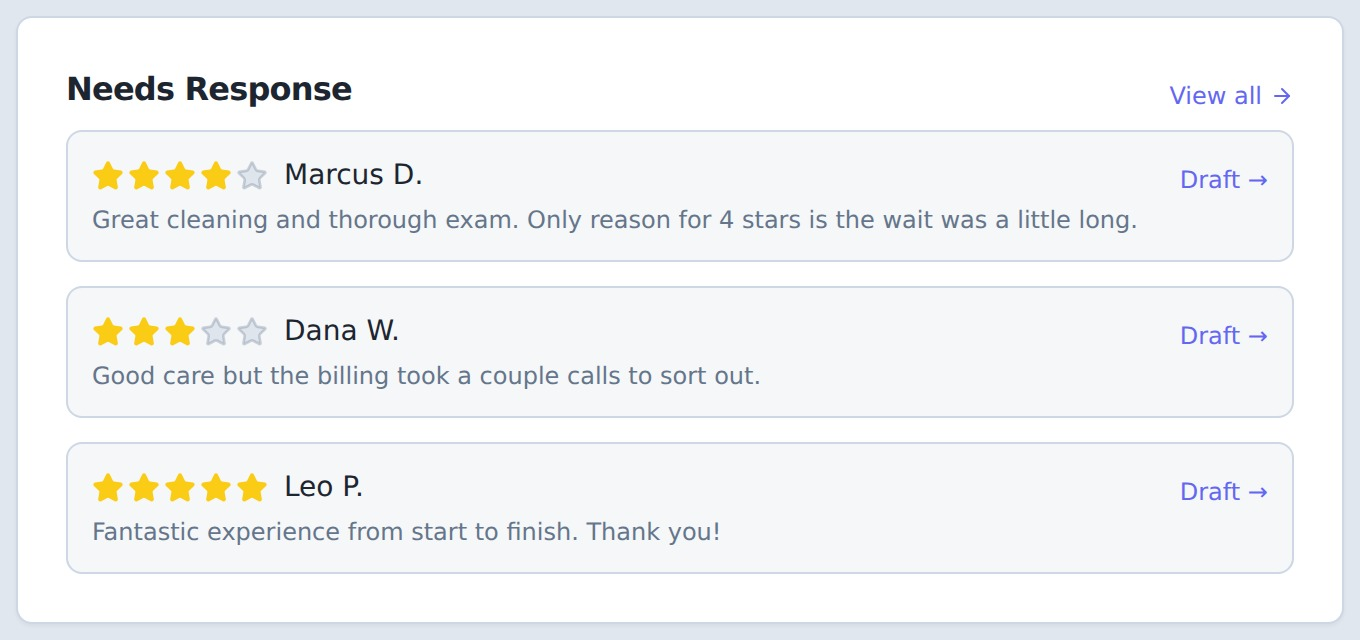
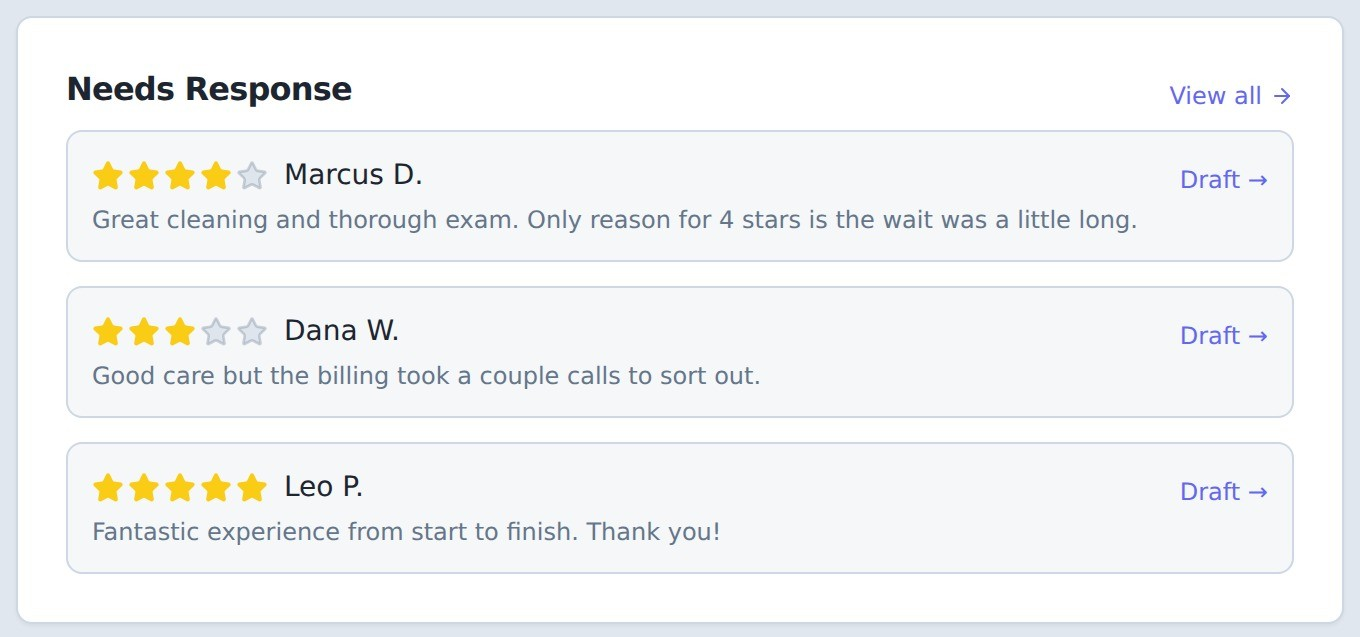
Fix image distortion: render screenshots at natural aspect ratio
The browser-frame screenshots relied on object-fit:cover inside a forced 16/10
box; if that box applied but object-fit didn't (cached/partial CSS, or a deploy
processing step), every image stretched to fill and appeared elongated. Now:

- Screenshots render as plain natural-ratio blocks (width:100%, height:auto,
  no absolute positioning, no forced aspect-ratio) so they physically cannot
  distort regardless of CSS state
- <img> width/height attributes corrected to each file's true pixel dimensions,
  so even with no CSS at all the intrinsic ratio is preserved
- Portrait AI-chat panel centered at a comfortable max size
- Trailing whitespace trimmed from the captured screenshots

Claude-Session: https://claude.ai/code/session_012nU6yHap6ScpuPVgFYMhho

diff --git a/dashboard/analytics.css b/dashboard/analytics.css
@@ -44,18 +44,22 @@
   padding: 4px 10px; border-radius: 999px;
 }
 
-/* ---------- real product screenshot inside the browser frame ---------- */
-.shot--img { background: #eef1f6; overflow: hidden; }
-.shot__img {
-  position: absolute; inset: 0; width: 100%; height: 100%;
-  object-fit: cover; object-position: top center; display: block;
+/* ---------- real product screenshot inside the browser frame ----------
+   Rendered as a plain natural-ratio image (no fixed box, no object-fit): the
+   picture keeps its own proportions and can never be stretched, even if this
+   stylesheet is cached or only partially applied. */
+.shot--img, .shot--auto, .shot--contain {
+  aspect-ratio: auto; background: #eef1f6; display: block; overflow: hidden;
 }
-/* portrait panels (e.g. the AI chat) show whole, centered on the canvas */
-.shot--contain { background: linear-gradient(160deg, #f7f6fb 0%, #eae8f6 100%); }
-.shot--contain .shot__img { object-fit: contain; object-position: center top; padding: 22px; }
-/* tight component crops keep their own aspect — the window hugs the content */
-.shot--auto { aspect-ratio: auto; }
-.shot--auto .shot__img { position: static; height: auto; }
+.shot--img .shot__img, .shot--auto .shot__img, .shot--contain .shot__img {
+  position: static; inset: auto;
+  width: 100%; height: auto; max-width: 100%;
+  object-fit: unset; display: block;
+}
+/* portrait panels (e.g. the AI chat) sit centered at a comfortable size */
+.shot--contain { background: linear-gradient(160deg, #f7f6fb 0%, #eae8f6 100%); display: grid; place-items: center; padding: 26px; }
+.shot--contain .shot__img { width: auto; max-width: 66%; max-height: 460px; border-radius: 10px; box-shadow: var(--shadow-sm); }
+@media (max-width: 720px) { .shot--contain .shot__img { max-width: 82%; } }
 
 /* ---------- "built inside our own practices" proof band ---------- */
 .proof-band { background: var(--ink); padding: 88px 0; }

diff --git a/dashboard/index.html b/dashboard/index.html
@@ -67,7 +67,7 @@
             <span class="browser__addr"><svg width="12" height="12" viewBox="0 0 24 24" fill="none" stroke="currentColor" stroke-width="2.4"><rect x="5" y="11" width="14" height="9" rx="2"/><path d="M8 11V8a4 4 0 0 1 8 0v3"/></svg>app.bridgedental.ai/dashboard</span>
           </div>
           <div class="shot shot--img">
-            <img class="shot__img" src="../assets/app/analytics-dashboard.jpg" alt="Bridge Analytics dashboard — month-to-date pace, forecast, AR aging and today's snapshot" width="1456" height="910" />
+            <img class="shot__img" src="../assets/app/analytics-dashboard.jpg" alt="Bridge Analytics dashboard — month-to-date pace, forecast, AR aging and today's snapshot" width="2912" height="2448" />
           </div>
         </figure>
       </div>
@@ -115,7 +115,7 @@
           <span class="browser__addr"><svg width="12" height="12" viewBox="0 0 24 24" fill="none" stroke="currentColor" stroke-width="2.4"><rect x="5" y="11" width="14" height="9" rx="2"/><path d="M8 11V8a4 4 0 0 1 8 0v3"/></svg>app.bridgedental.ai/analytics</span>
         </div>
         <div class="shot shot--img shot--auto">
-          <img class="shot__img" src="../assets/app/pacing-rings.jpg" alt="Month-to-date pace rings — Net Production, Collections, New Patients and Google Reviews, each marked Ahead" width="2056" height="560" />
+          <img class="shot__img" src="../assets/app/pacing-rings.jpg" alt="Month-to-date pace rings — Net Production, Collections, New Patients and Google Reviews, each marked Ahead" width="2056" height="556" />
         </div>
       </figure>
     </div>
@@ -132,7 +132,7 @@
           <span class="browser__addr"><svg width="12" height="12" viewBox="0 0 24 24" fill="none" stroke="currentColor" stroke-width="2.4"><rect x="5" y="11" width="14" height="9" rx="2"/><path d="M8 11V8a4 4 0 0 1 8 0v3"/></svg>app.bridgedental.ai/analytics/treatment-plans</span>
         </div>
         <div class="shot shot--img">
-          <img class="shot__img" src="../assets/app/analytics-txplans.jpg" alt="Treatment-plan tracker — open value, pipeline and follow-ups by patient" width="1456" height="910" />
+          <img class="shot__img" src="../assets/app/analytics-txplans.jpg" alt="Treatment-plan tracker — open value, pipeline and follow-ups by patient" width="2912" height="2080" />
         </div>
       </figure>
     </div>
@@ -233,7 +233,7 @@
           <span class="browser__addr"><svg width="12" height="12" viewBox="0 0 24 24" fill="none" stroke="currentColor" stroke-width="2.4"><rect x="5" y="11" width="14" height="9" rx="2"/><path d="M8 11V8a4 4 0 0 1 8 0v3"/></svg>app.bridgedental.ai/analytics/providers</span>
         </div>
         <div class="shot shot--img">
-          <img class="shot__img" src="../assets/app/analytics-providers.jpg" alt="Provider scorecards — production vs trailing average, production per hour, case acceptance" width="1456" height="910" />
+          <img class="shot__img" src="../assets/app/analytics-providers.jpg" alt="Provider scorecards — production vs trailing average, production per hour, case acceptance" width="2912" height="2080" />
         </div>
       </figure>
     </div>
@@ -250,7 +250,7 @@
           <span class="browser__addr"><svg width="12" height="12" viewBox="0 0 24 24" fill="none" stroke="currentColor" stroke-width="2.4"><rect x="5" y="11" width="14" height="9" rx="2"/><path d="M8 11V8a4 4 0 0 1 8 0v3"/></svg>app.bridgedental.ai/analytics</span>
         </div>
         <div class="shot shot--img shot--contain">
-          <img class="shot__img" src="../assets/app/ai-consultant.jpg" alt="AI Practice Consultant answering a question about this month's collections with the practice's real numbers" width="420" height="656" />
+          <img class="shot__img" src="../assets/app/ai-consultant.jpg" alt="AI Practice Consultant answering a question about this month's collections with the practice's real numbers" width="840" height="1002" />
         </div>
       </figure>
     </div>
@@ -301,7 +301,7 @@
           <span class="browser__addr"><svg width="12" height="12" viewBox="0 0 24 24" fill="none" stroke="currentColor" stroke-width="2.4"><rect x="5" y="11" width="14" height="9" rx="2"/><path d="M8 11V8a4 4 0 0 1 8 0v3"/></svg>app.bridgedental.ai/reputation</span>
         </div>
         <div class="shot shot--img">
-          <img class="shot__img" src="../assets/app/reputation-dashboard.jpg" alt="Reputation dashboard — rating trend, response rate, needs-response, sentiment themes and rating distribution" width="1456" height="910" />
+          <img class="shot__img" src="../assets/app/reputation-dashboard.jpg" alt="Reputation dashboard — rating trend, response rate, needs-response, sentiment themes and rating distribution" width="2912" height="2080" />
         </div>
       </figure>
     </div>
@@ -316,7 +316,7 @@
           <span class="browser__addr"><svg width="12" height="12" viewBox="0 0 24 24" fill="none" stroke="currentColor" stroke-width="2.4"><rect x="5" y="11" width="14" height="9" rx="2"/><path d="M8 11V8a4 4 0 0 1 8 0v3"/></svg>app.bridgedental.ai/reputation/responses</span>
         </div>
         <div class="shot shot--img shot--auto">
-          <img class="shot__img" src="../assets/app/reputation-needs-response.jpg" alt="Reviews awaiting a reply, each with a Draft link — an AI-written response is one click away" width="1360" height="640" />
+          <img class="shot__img" src="../assets/app/reputation-needs-response.jpg" alt="Reviews awaiting a reply, each with a Draft link — an AI-written response is one click away" width="1360" height="637" />
         </div>
       </figure>
     </div>
@@ -348,7 +348,7 @@
           <span class="browser__addr"><svg width="12" height="12" viewBox="0 0 24 24" fill="none" stroke="currentColor" stroke-width="2.4"><rect x="5" y="11" width="14" height="9" rx="2"/><path d="M8 11V8a4 4 0 0 1 8 0v3"/></svg>app.bridgedental.ai/reputation/requests</span>
         </div>
         <div class="shot shot--img">
-          <img class="shot__img" src="../assets/app/reputation-requests.jpg" alt="Automated review requests — queued and sent after the right appointments" width="1456" height="910" />
+          <img class="shot__img" src="../assets/app/reputation-requests.jpg" alt="Automated review requests — queued and sent after the right appointments" width="2912" height="2080" />
         </div>
       </figure>
     </div>